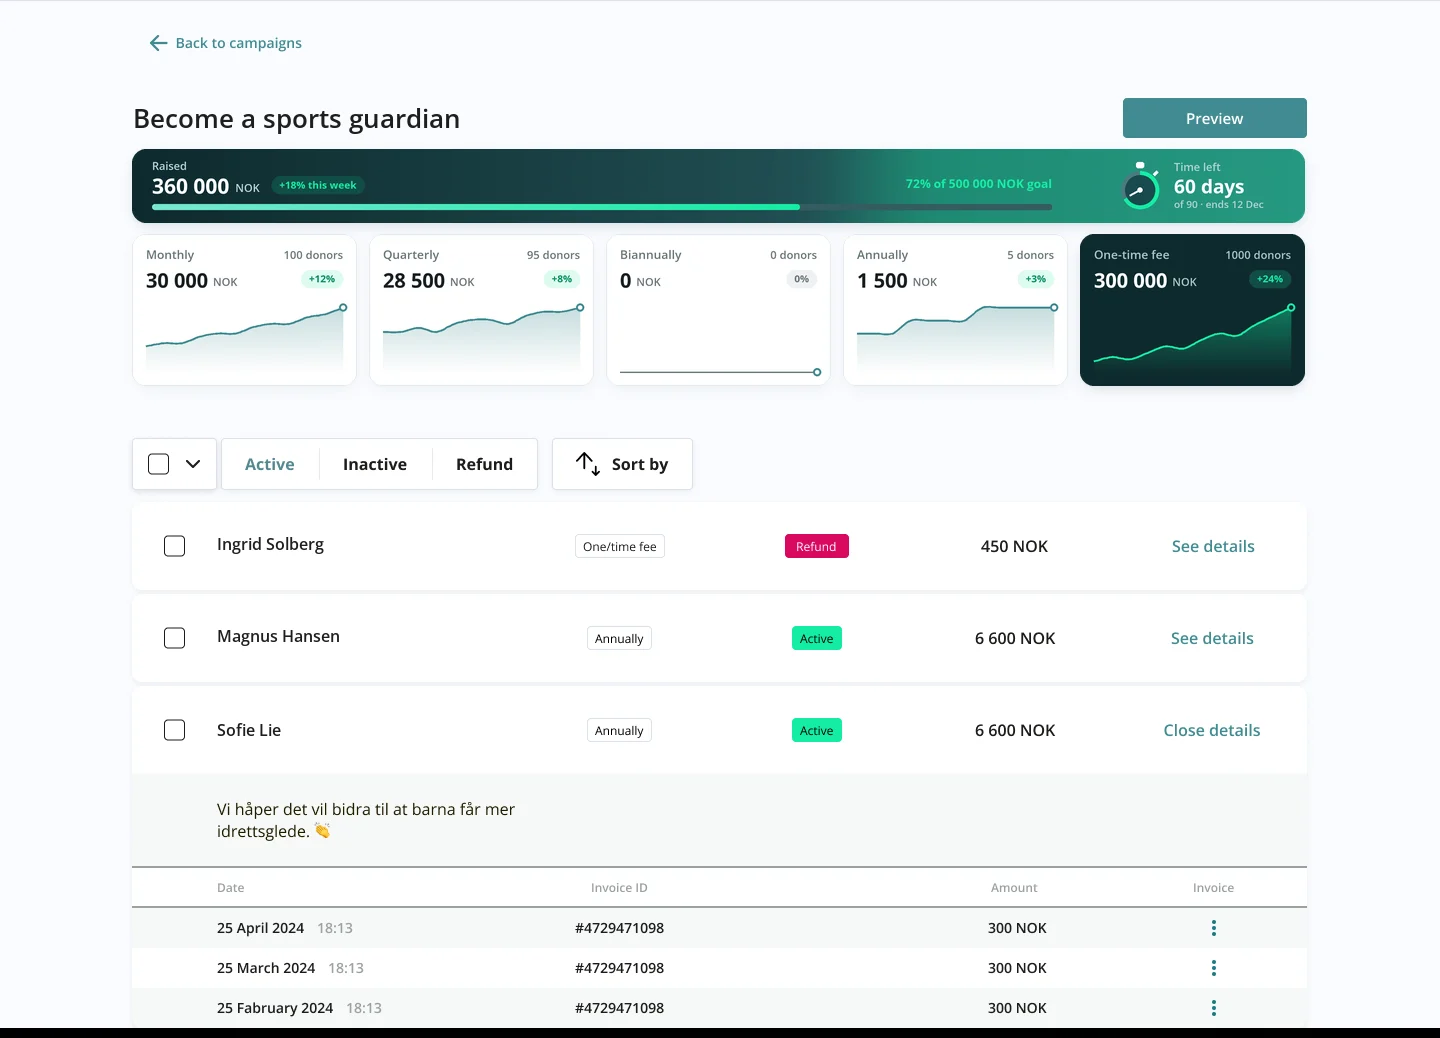
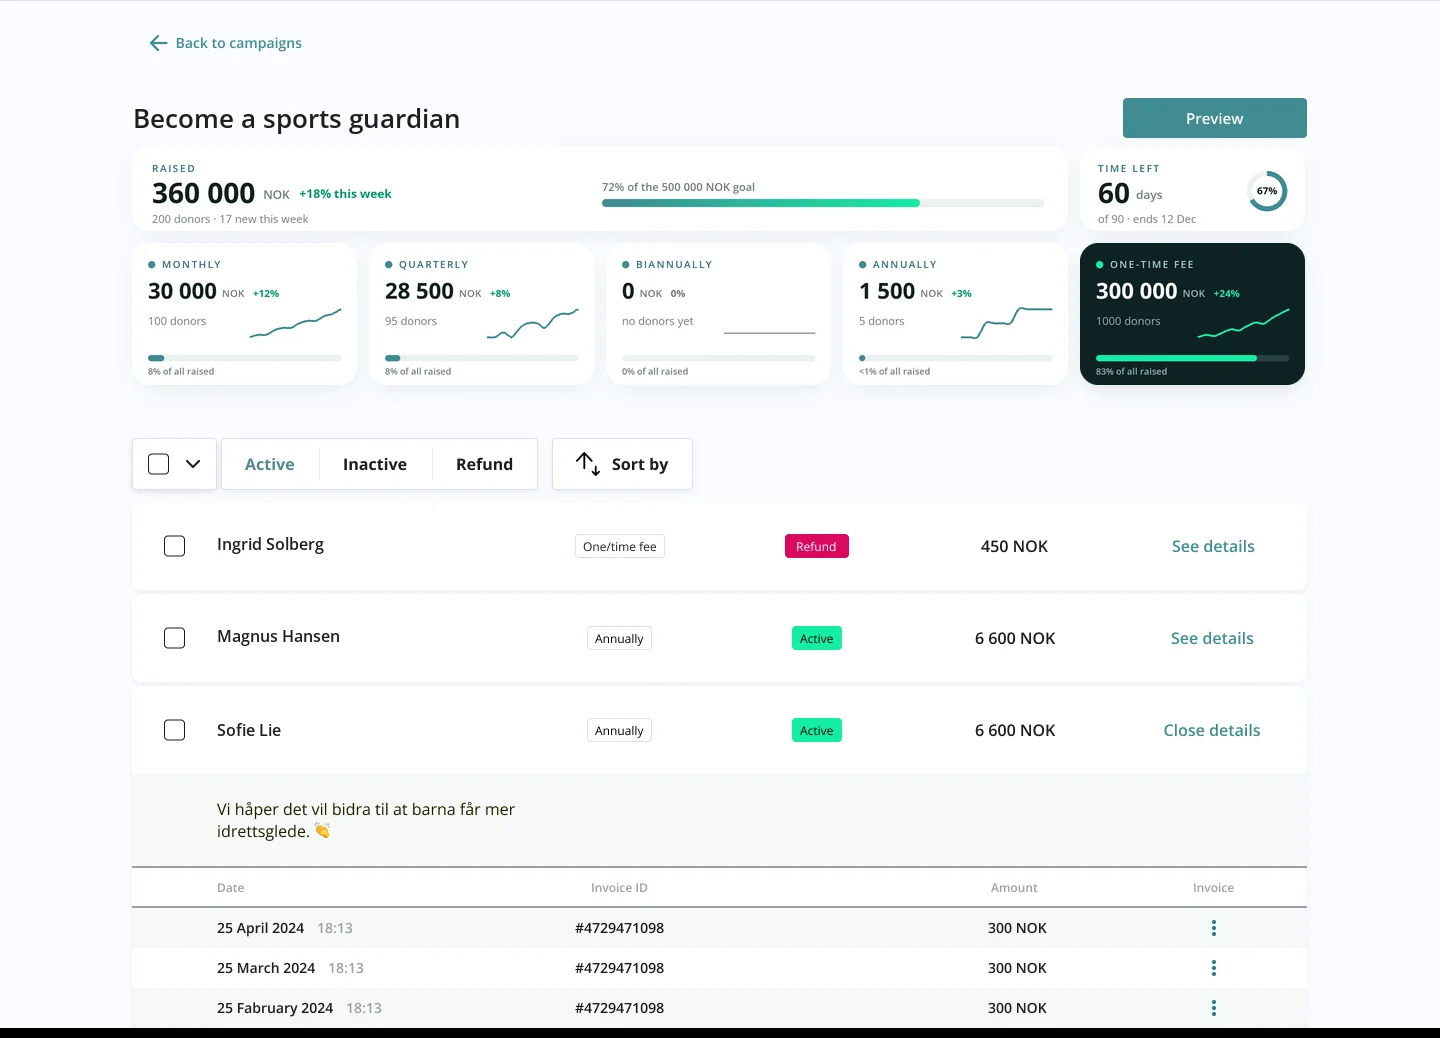
Sport Guardian admin statistics redrawn after her sales dashboard reference; reference 22 in inspiration and Notion

Changed region(s): [[0.0938, 0.1233, 0.9062, 0.3699], [0.5312, 0.2466, 0.5625, 0.2775], [0.4375, 0.3391, 0.4688, 0.3699]]

diff --git a/inspiration.html b/inspiration.html
@@ -299,6 +299,20 @@ ol.q{margin:0;padding-left:22px;display:flex;flex-direction:column;gap:10px;font
       <figure><img src="inspiration/20-reino-berrics-cap-skateboards.png" alt="A khaki cap with the Berrics mark and name, and three skateboards: black with grey globes, grey with the name, orange with the mark." loading="lazy"><figcaption>20 · Berrics: cap and skateboards</figcaption></figure>
     </div>
   </article>
+
+  <article class="ref">
+    <div class="text">
+      <span class="label">Sport Guardian · Admin statistics</span>
+      <span class="src">Sales dashboard (source not given)</span>
+      <ul>
+        <li>Light rounded cards, small uppercase labels, big numbers with the change in green, a sparkline; one dark card with a bright bar.</li>
+        <li><b>Borrow:</b> the admin statistics on the Sport Guardian page, redrawn in this style.</li>
+      </ul>
+    </div>
+    <div class="shots">
+      <figure><img src="inspiration/22-sales-dashboard-cards.png" alt="A sales dashboard in perspective: four white KPI cards with big numbers, green changes and small sparklines; a revenue chart with a lime area; a schedule list; four segment cards, the last one black with a lime progress bar." loading="lazy"><figcaption>22 · Sales dashboard cards</figcaption></figure>
+    </div>
+  </article>
 </section>
 
 <section aria-labelledby="h-more">

diff --git a/tools/sport-guardian/stat_cards.py b/tools/sport-guardian/stat_cards.py
@@ -147,3 +147,92 @@ def kpis(im):
     im.paste(Image.new('RGB', im.size, (30, 60, 70)), (0, 0), sh.filter(ImageFilter.GaussianBlur(6)))
     k = k.resize((W2, H2), Image.LANCZOS); im.paste(k, (X, Y), k)
     return im
+
+# ---- the whole statistics block, redrawn after her sales dashboard reference (2026-10-13, inspiration 22):
+# light rounded cards, soft shadows, small uppercase letter-spaced labels, big numbers with the change in green,
+# one line of context and a small sparkline; One-time fee is the dark highlighted card with a bright bar.
+def _tracked(d, xy, text, font, fill, track):
+    x, y = xy
+    for ch in text:
+        d.text((x, y), ch, font=font, fill=fill); x += d.textlength(ch, font=font)+track
+    return x
+
+def _spark(d, box, series, col, fill_col, width):
+    l, t, r, b = box; mx = max(max(series), 1); mn = min(series)
+    pts = [(l+(r-l)*i/(len(series)-1), b-(b-t)*((v-mn)/(mx-mn) if mx > mn else 0)) for i, v in enumerate(series)]
+    sm = []
+    for i in range(len(pts)-1):
+        p0, p1, p2, p3 = pts[max(i-1, 0)], pts[i], pts[i+1], pts[min(i+2, len(pts)-1)]
+        for tt in [k/8 for k in range(8)]:
+            t2, t3 = tt*tt, tt*tt*tt
+            sm.append(tuple(.5*((2*p1[j])+(-p0[j]+p2[j])*tt+(2*p0[j]-5*p1[j]+4*p2[j]-p3[j])*t2+(-p0[j]+3*p1[j]-3*p2[j]+p3[j])*t3) for j in (0, 1)))
+    sm.append(pts[-1])
+    if fill_col: d.polygon(sm+[(r, b), (l, b)], fill=fill_col)
+    d.line(sm, fill=col, width=width, joint='curve')
+
+def dashboard(im):
+    bg = im.getpixel((10, 300)); D = ImageDraw.Draw(im); D.rectangle((118, 207, 1322, 470), fill=bg)
+    INKD, MUT, LAB, UP = (20, 30, 32), (112, 124, 128), (52, 112, 118), (8, 150, 100)
+    DARK = (14, 34, 37)
+    def card(x, y, w, h, dark=False):
+        sh = Image.new('L', im.size, 0); ImageDraw.Draw(sh).rounded_rectangle((x+3, y+8, x+w-3, y+h+4), 18, fill=34 if dark else 22)
+        im.paste(Image.new('RGB', im.size, (40, 70, 80)), (0, 0), sh.filter(ImageFilter.GaussianBlur(9)))
+        c = Image.new('RGBA', (w*S, h*S), (0, 0, 0, 0))
+        ImageDraw.Draw(c).rounded_rectangle((0, 0, w*S-1, h*S-1), 18*S, fill=DARK if dark else (255, 255, 255))
+        return c, ImageDraw.Draw(c)
+    def put(c, x, y): c = c.resize((c.width//S, c.height//S), Image.LANCZOS); im.paste(c, (x, y), c)
+    lab = FONT('SemiBold', 10*S)
+    # row 1: raised (wide) and time left (over the One-time fee card)
+    x0, y0, h0 = 132, 212, 84; wT = W; xT = X0+4*(W+GAP); wR = xT-GAP-x0
+    c, d = card(x0, y0, wR, h0)
+    _tracked(d, (20*S, 14*S), 'RAISED', lab, LAB, 1.6*S)
+    big = FONT('Bold', 28*S); d.text((20*S, 26*S), '360 000', font=big, fill=INKD)
+    bw = d.textlength('360 000', font=big)
+    d.text((20*S+bw+8*S, 39*S), 'NOK', font=FONT('SemiBold', 12*S), fill=MUT)
+    d.text((20*S+bw+44*S, 38*S), '+18% this week', font=FONT('Bold', 12*S), fill=UP)
+    # the goal: a bar with its label, on the right half
+    bl, br, by = 470*S, (wR-24)*S, 52*S
+    gt = '72% of the 500 000 NOK goal'; gf = FONT('SemiBold', 11*S)
+    d.text((bl, 32*S), gt, font=gf, fill=MUT)
+    d.rounded_rectangle((bl, by, br, by+8*S), 4*S, fill=(234, 240, 241))
+    fw = int((br-bl)*.72); g = Image.new('RGB', (fw, 8*S))
+    for i in range(fw):
+        t = i/max(fw-1, 1); g.paste(tuple(int(TEAL[j]+(GREEN[j]-TEAL[j])*t) for j in range(3)), (i, 0, i+1, 8*S))
+    gm = Image.new('L', g.size, 0); ImageDraw.Draw(gm).rounded_rectangle((0, 0, fw-1, 8*S-1), 4*S, fill=255); c.paste(g, (bl, by), gm)
+    d.text((20*S, 64*S), '200 donors · 17 new this week', font=FONT('Regular', 11*S), fill=MUT)
+    put(c, x0, y0)
+    c, d = card(xT, y0, wT, h0)
+    _tracked(d, (18*S, 14*S), 'TIME LEFT', lab, LAB, 1.6*S)
+    d.text((18*S, 26*S), '60', font=big, fill=INKD); nw = d.textlength('60', font=big)
+    d.text((18*S+nw+6*S, 39*S), 'days', font=FONT('SemiBold', 12*S), fill=MUT)
+    d.text((18*S, 64*S), 'of 90 · ends 12 Dec', font=FONT('Regular', 11*S), fill=MUT)
+    cx, cy, r = (wT-38)*S, 44*S, 20*S
+    d.ellipse((cx-r, cy-r, cx+r, cy+r), outline=(234, 240, 241), width=5*S)
+    d.arc((cx-r, cy-r, cx+r, cy+r), -90, -90+360*60/90, fill=TEAL, width=5*S)
+    b = d.textbbox((0, 0), '67%', font=FONT('Bold', 10*S)); d.text((cx-(b[2]-b[0])/2-b[0], cy-(b[3]-b[1])/2-b[1]), '67%', font=FONT('Bold', 10*S), fill=INKD)
+    put(c, xT, y0)
+    # row 2: the five frequencies
+    y1, h1 = 308, 142; total = 360000
+    rows = [('MONTHLY', '30 000', 30000, '+12%', '100 donors', DATA[0][4]), ('QUARTERLY', '28 500', 28500, '+8%', '95 donors', DATA[1][4]),
+            ('BIANNUALLY', '0', 0, '0%', 'no donors yet', DATA[2][4]), ('ANNUALLY', '1 500', 1500, '+3%', '5 donors', DATA[3][4]),
+            ('ONE-TIME FEE', '300 000', 300000, '+24%', '1000 donors', DATA[4][4])]
+    for i, (name, amt, val, ch, sub, ser) in enumerate(rows):
+        x = X0+i*(W+GAP); dark = i == 4
+        c, d = card(x, y1, W, h1, dark)
+        fg = (255, 255, 255) if dark else INKD; mut = (150, 180, 182) if dark else MUT
+        d.ellipse((16*S, 18*S, 23*S, 25*S), fill=GREEN if dark else TEAL)
+        _tracked(d, (30*S, 14*S), name, lab, (170, 205, 205) if dark else LAB, 1.4*S)
+        f = FONT('Bold', 22*S); d.text((16*S, 32*S), amt, font=f, fill=fg); aw = d.textlength(amt, font=f)
+        d.text((16*S+aw+5*S, 43*S), 'NOK', font=FONT('SemiBold', 10*S), fill=mut)
+        up = ch != '0%'
+        d.text((16*S+aw+36*S, 43*S), ch, font=FONT('Bold', 10*S), fill=(GREEN if dark else UP) if up else mut)
+        d.text((16*S, 70*S), sub, font=FONT('Regular', 11*S), fill=mut)
+        if max(ser): _spark(d, (118*S, 66*S, (W-16)*S, 94*S), ser, GREEN if dark else TEAL, None, 2*S)
+        else: d.line([(118*S, 90*S), ((W-16)*S, 90*S)], fill=mut, width=S)
+        # share of all money raised
+        bl, br, by = 16*S, (W-16)*S, 112*S; share = val/total
+        d.rounded_rectangle((bl, by, br, by+6*S), 3*S, fill=(40, 64, 66) if dark else (234, 240, 241))
+        if share > 0: d.rounded_rectangle((bl, by, bl+max(int((br-bl)*share), 6*S), by+6*S), 3*S, fill=GREEN if dark else TEAL)
+        d.text((16*S, 122*S), (('<1' if 0 < share < .01 else str(round(share*100)))+'% of all raised'), font=FONT('SemiBold', 9*S), fill=mut)
+        put(c, x, y1)
+    return im

diff --git a/tools/sport-guardian/fix_screens.py b/tools/sport-guardian/fix_screens.py
@@ -30,8 +30,8 @@ ab = retext(Image.open(os.path.join(F, '1x', 'admin-business.png')).convert('RGB
              ((366, 698, 600, 725), 'Elvebakken Tennis', (369, 711))], 16)
 save(ab, 'screen-admin-business')
 
-from stat_cards import cards, kpis, club_logo
-st = club_logo(kpis(cards(Image.open(os.path.join(F, '1x', 'statistik.png')).convert('RGB')))); d = ImageDraw.Draw(st)
+from stat_cards import dashboard, club_logo
+st = club_logo(dashboard(Image.open(os.path.join(F, '1x', 'statistik.png')).convert('RGB'))); d = ImageDraw.Draw(st)
 for y, name in [(611, 'Ingrid Solberg'), (703, 'Magnus Hansen'), (795, 'Sofie Lie')]:
     d.rectangle((212, y-16, 525, y+16), fill=(255, 255, 255))
     b = d.textbbox((0, 0), name, font=SEMI); d.text((217-b[0], y-(b[3]-b[1])/2-b[1]), name, font=SEMI, fill=(30, 30, 30))

diff --git a/sportguardian.md b/sportguardian.md
@@ -40,7 +40,7 @@ Order (2026-10-13, her request, last change): header → the moving mosaic → A
    (the desktop page: a browser frame, scrolling slowly under its fixed header, on a pale panel)
    - (swapped, her request) on a pale panel (1–5) two phone-size screens, paying by card and paying with Vipps (`m-step-4.webp`, `m-vipps-2.webp`), larger, the card one higher on the left and the Vipps one lower on the right (her request), as tall as the phone panel; the phone on a teal panel (6–9) playing the flow; the caption on the right (10–12): **Card or Vipps.** Donors pay by card, or with Vipps, the mobile payment app used only in the Nordic countries: in Norway most people pay with it in one tap, and donors from anywhere else pay by card. The phone has no caption and no visible Pause button (her request); for WCAG 2.2.2 it stops while the pointer is over it, and a click, a tap or Enter / Space on it stops or starts it (screen readers hear how). The desktop page has no caption or Pause button either (her request); it stops the same way: hover, click, tap, Enter or Space. The card and Vipps screens are 41% of their panel wide with 7% at the sides, between the earlier small and large sizes, to sit with the phone next to them. Her card frame says "Pay 630 NOK"; it reads 603 NOK like the rest of the flow (`mobile_frames.py` also rewrites `card-credit-card.webp`, so run it after `export_assets.py`).
    - the donor list on a teal panel (1–4); the campaign builder's "Accept donations from / Select donation frequency" block on a pale panel (5–12): single elements, as she asked, since the full builder page is not its best side;
-   - the campaign statistics in the admin panel in a browser frame, scrolling under the fixed admin nav (1–12). The five frequency cards are redrawn as modern dashboard cards ("like crypto dashboards, with charts"): label and donor count, the amount, a growth chip, a small area chart with a gradient; One-time fee is the highlighted dark card with a green chart; chart data is made up ([`tools/sport-guardian/stat_cards.py`](tools/sport-guardian/stat_cards.py)). The caption runs in two lines (64ch). The admin header (her request): the club's swimmer mark from the campaign page in a round badge instead of the "Logo" placeholder; the amount raised and the time left share one card across the whole cards row, on a deep-teal-to-teal gradient with a soft green glow on the right so it stands out (her request): on the left "Raised 360 000 NOK" with a "+18% this week" chip and a teal-to-green bar, "72% of 500 000 NOK goal"; on the right a small stopwatch whose teal ring shows the time left, "Time left 60 days, ends 12 Dec". The 90 days, the goal, the end date and the weekly growth are made up for the mockup.
+   - the campaign statistics in the admin panel in a browser frame, scrolling under the fixed admin nav (1–12). The five frequency cards are redrawn as modern dashboard cards ("like crypto dashboards, with charts"): label and donor count, the amount, a growth chip, a small area chart with a gradient; One-time fee is the highlighted dark card with a green chart; chart data is made up ([`tools/sport-guardian/stat_cards.py`](tools/sport-guardian/stat_cards.py)). The caption runs in two lines (64ch). Redrawn 2026-10-13 after her sales dashboard reference (inspiration 22): light rounded cards with soft shadows, small uppercase letter-spaced labels, big numbers with the change in green beside them, one line of context, a small sparkline, and a bar for each frequency's share of all money raised; One-time fee is the dark card with a bright green bar. Top row: RAISED 360 000 NOK, +18% this week, the bar to the 500 000 NOK goal and "200 donors · 17 new this week"; TIME LEFT 60 days with a ring, over the One-time fee card. Built by `dashboard()` in `stat_cards.py`; the earlier cards and gradient strip are superseded. The admin header (her request): the club's swimmer mark from the campaign page in a round badge instead of the "Logo" placeholder; the amount raised and the time left share one card across the whole cards row, on a deep-teal-to-teal gradient with a soft green glow on the right so it stands out (her request): on the left "Raised 360 000 NOK" with a "+18% this week" chip and a teal-to-green bar, "72% of 500 000 NOK goal"; on the right a small stopwatch whose teal ring shows the time left, "Time left 60 days, ends 12 Dec". The 90 days, the goal, the end date and the weekly growth are made up for the mockup.
    Fixed headers: each long screen is cut into a header strip and a body (`*-head.webp`, `*-body.webp`) by [`tools/sport-guardian/fix_screens.py`](tools/sport-guardian/fix_screens.py). The same script replaces placeholder texts in the admin screens with made-up names: the statistics title "Become a sports guardian" and donors Ingrid Solberg, Magnus Hansen, Sofie Lie; the campaigns "Swimming for everyone", "Junior squad 2024"; the clubs Fjordby Svømmeklubb, Nordlys Fotball, Elvebakken Tennis. Not real people or clubs.
 5. **Brand** (mockups, not a real campaign):
    - the hoodie photo (the mark alone on its back) across the grid (1–12), 16:8, in place of the logo banner (her request, 2026-10-13); right under it the caption about the mark, no title, in two lines (64ch; her request);

diff --git a/inspiration.md b/inspiration.md
@@ -107,6 +107,10 @@ Her brief for `SportGuardian.html`: a first screen in a rectangle of the thumbna
 - The mark printed big on the back of a hoodie, over the dark band; a cap with the mark and name; three skateboards in different colourways.
 - To borrow: **brand goods** with the SG mark, in the project's teal and green, changed rather than copied.
 
+**Sales dashboard (source not given)** · `22-sales-dashboard-cards.png` (sent 2026-10-13)
+- Light rounded cards with soft shadows; small uppercase, letter-spaced labels; big numbers with the change in green beside them; one line of context and a small sparkline; one dark card highlighted, with a bright progress bar.
+- To borrow: **the admin statistics** on the Sport Guardian page, redrawn in this style.
+
 ---
 
 ## 3. Also saved in Notion, not yet annotated
